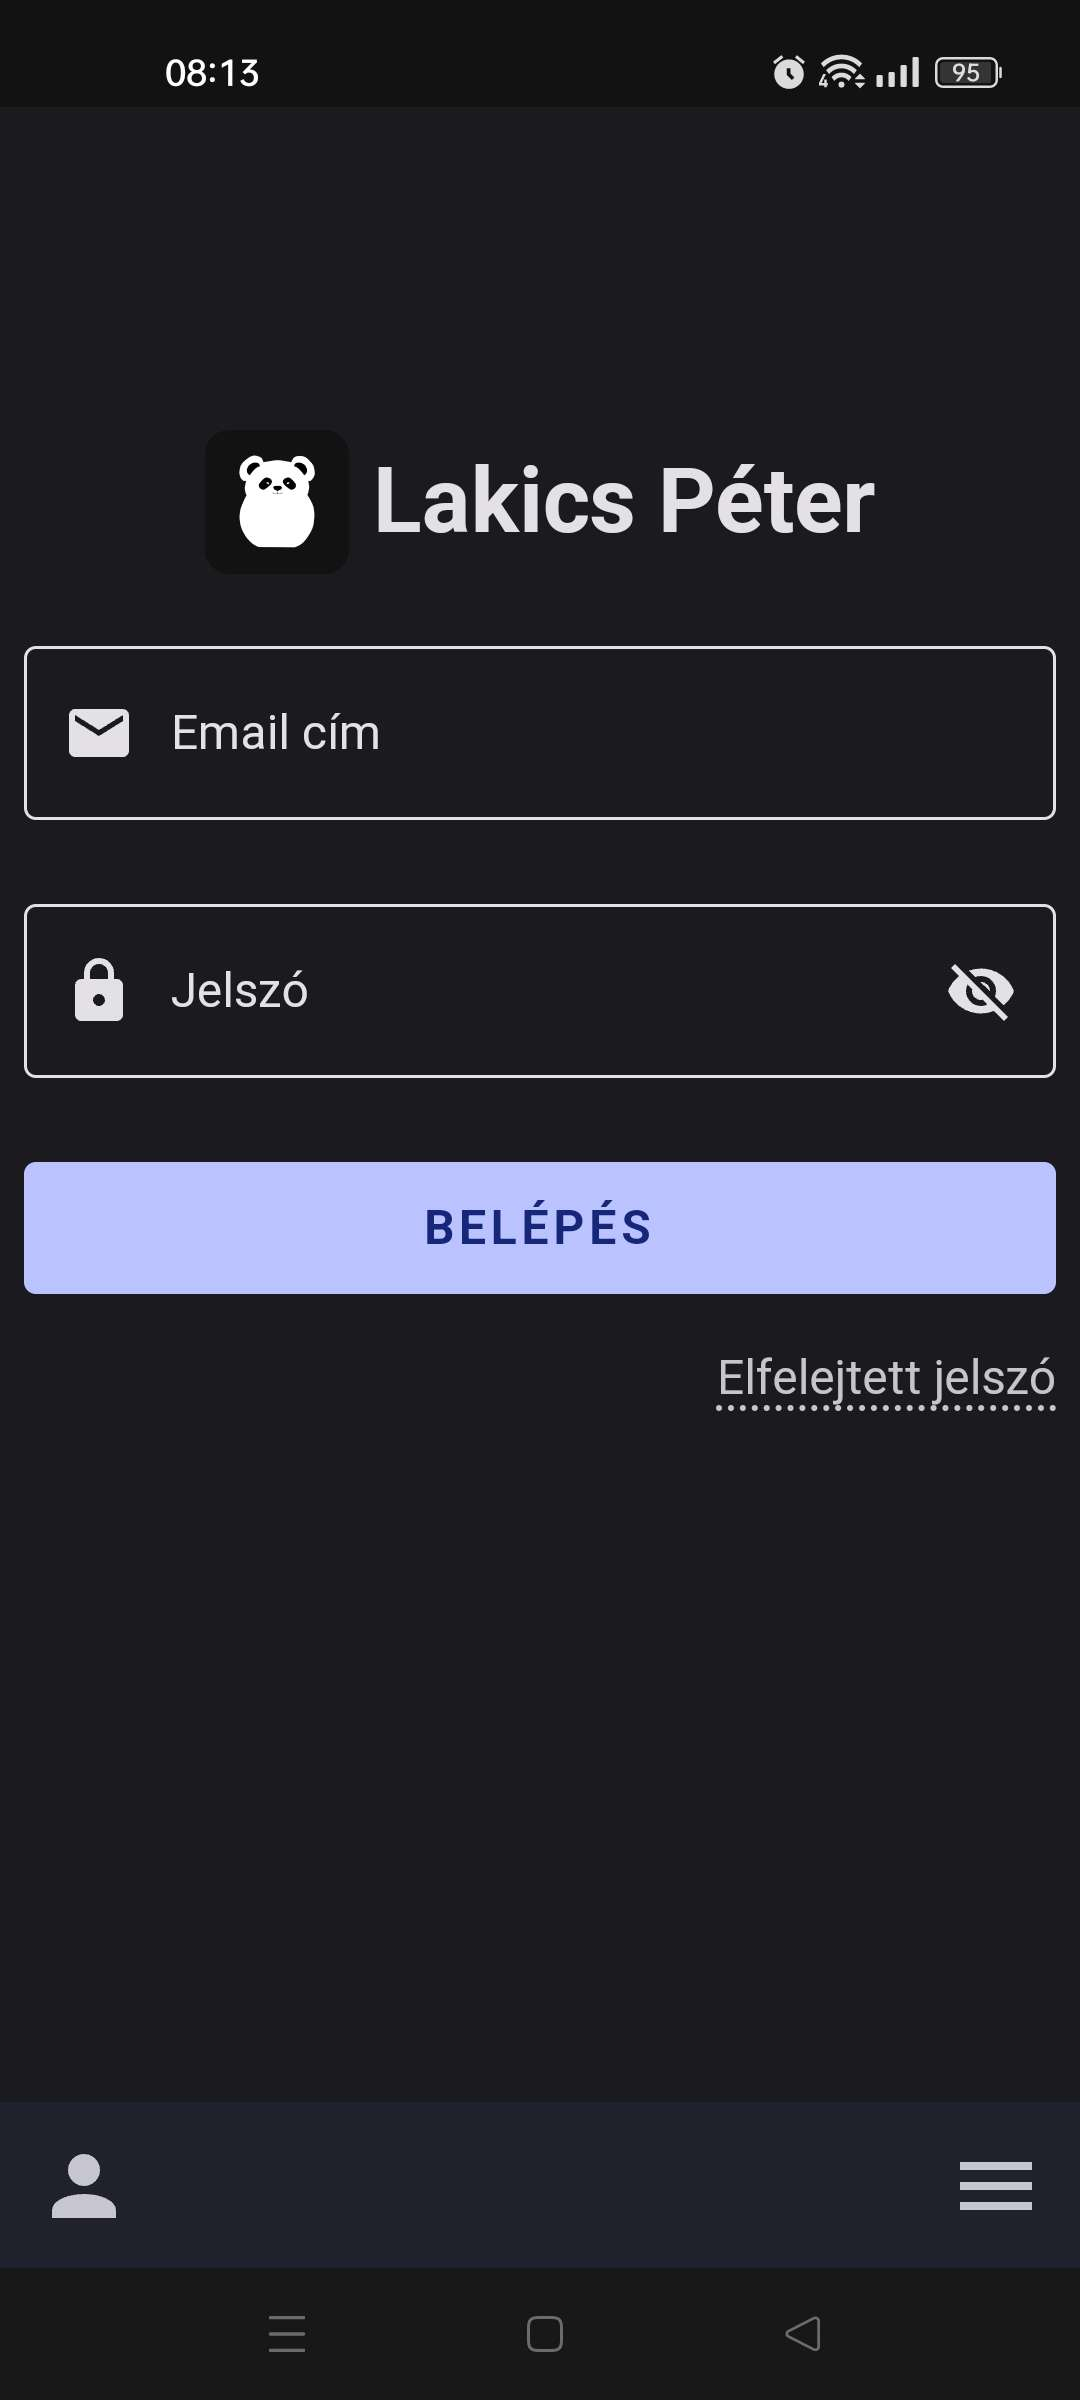
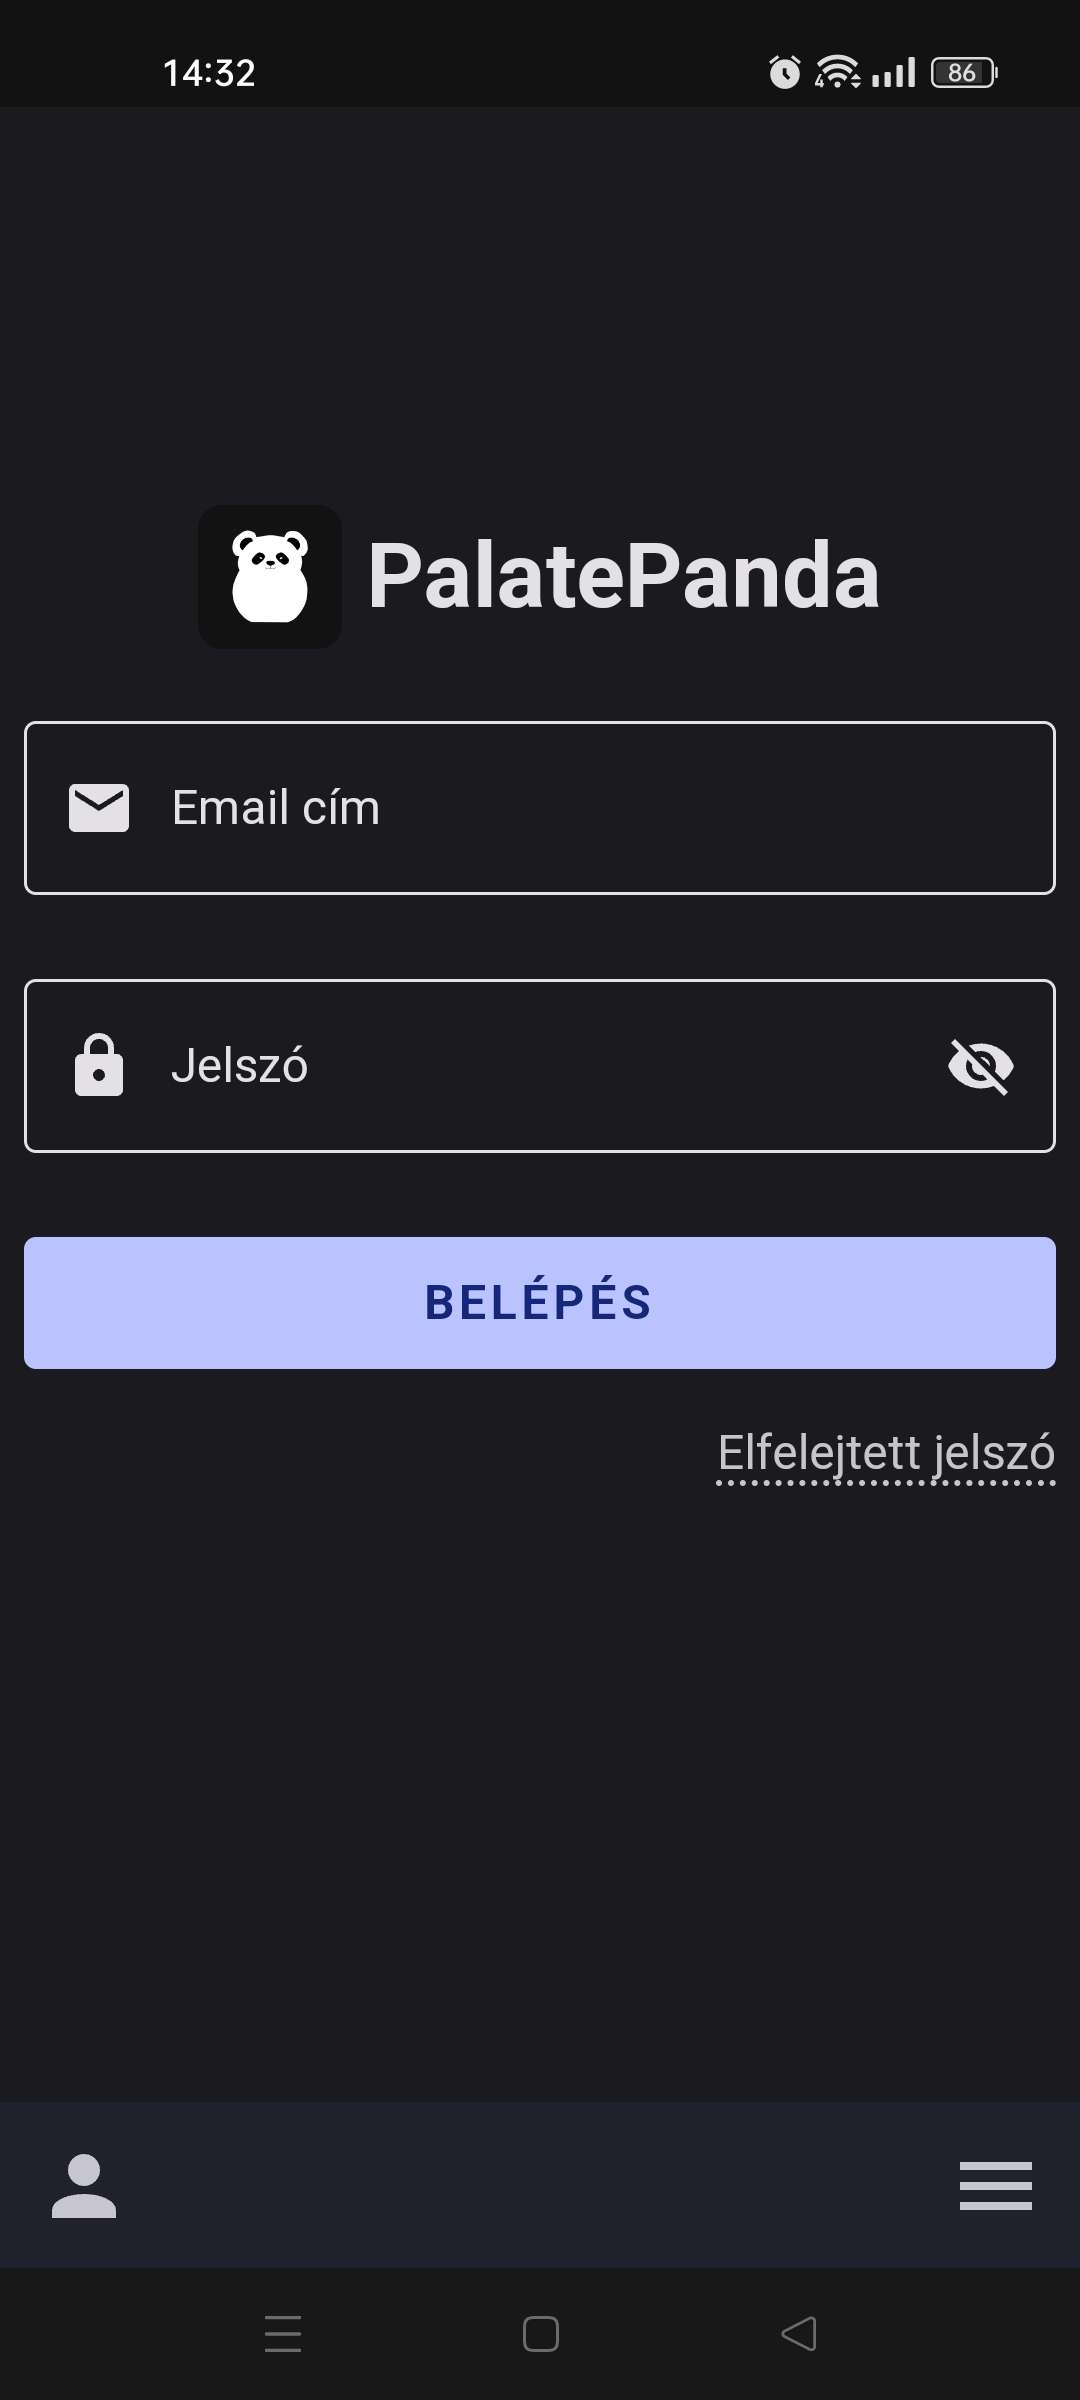
feat: rebrand to palatepanda (#48)
* feat: rebrand to palatepanda

* feat: update narrow screenshots

diff --git a/helpers/index.ts b/helpers/index.ts
@@ -19,41 +19,29 @@ export function debounce(func: TimerHandler, time: number): EventListenerOrEvent
  * @returns The error message
  */
 export function errorHandler(error: { [index: string]: string }): string {
-  if (!error) return '';
-  if (!error.code) return '';
-  switch (error.code) {
-    case 'auth/wrong-password':
-    case 'auth/user-not-found':
-    case 'auth/invalid-credential':
-      return `Hibás email cím vagy jelszó.`;
-    case 'auth-empty':
-      return 'Email cím vagy jelszó nincs kitöltve.';
-    case 'email-empty':
-      return 'Email cím nincs kitöltve.';
-    case 'auth/invalid-email':
-      return `Hibás email cím.`;
-    case 'permission-denied':
-    case 'unauthenticated':
-      return `Nincs jogosultságod megtekinteni az oldal tartalmát.`;
-    case 'auth/internal-error':
-      return `Sikertelen bejelentkezés.`;
-    case 'no-recipe-title':
-      return 'Adj címet a receptnek! Cím megadása: Az első sorban a következőképp: # Példa Cím';
-    case 'empty-recipe':
-      return 'Hiba: A recept nem lehet üres.';
-    case 'displayname-empty':
-      return 'Adj meg egy felhasználónevet!';
-    case 'displayname-short':
-      return 'A felhasználónév túl rövid.';
-    case 'password-empty':
-      return 'Adj meg egy jelszót.';
-    case 'auth/weak-password':
-      return 'A jelszó nem elég erős.';
-    case 'displayname-long':
-      return 'A felhasználónév túl hosszú.';
-    default:
-      return 'Ismeretlen hiba.';
-  }
+  if (!error?.code) return '';
+
+  const errorMessages: { [index: string]: string } = {
+    'auth/wrong-password': 'Hibás email cím vagy jelszó.',
+    'auth/user-not-found': 'Hibás email cím vagy jelszó.',
+    'auth/invalid-credential': 'Hibás email cím vagy jelszó.',
+    'auth-empty': 'Email cím vagy jelszó nincs kitöltve.',
+    'email-empty': 'Email cím nincs kitöltve.',
+    'auth/invalid-email': 'Hibás email cím.',
+    'permission-denied': 'Nincs jogosultságod megtekinteni az oldal tartalmát.',
+    'unauthenticated': 'Nincs jogosultságod megtekinteni az oldal tartalmát.',
+    'auth/internal-error': 'Sikertelen bejelentkezés.',
+    'no-recipe-title':
+      'Adj címet a receptnek! Cím megadása: Az első sorban a következőképp: # Példa Cím',
+    'empty-recipe': 'Hiba: A recept nem lehet üres.',
+    'displayname-empty': 'Adj meg egy felhasználónevet!',
+    'displayname-short': 'A felhasználónév túl rövid.',
+    'password-empty': 'Adj meg egy jelszót.',
+    'auth/weak-password': 'A jelszó nem elég erős.',
+    'displayname-long': 'A felhasználónév túl hosszú.',
+  };
+
+  return errorMessages[error.code] || 'Ismeretlen hiba.';
 }
 
 /**
@@ -62,16 +50,13 @@ export function errorHandler(error: { [index: string]: string }): string {
  * @returns The success message
  */
 export function successHandler(success: { [index: string]: string }): string {
-  if (!success) return '';
-  if (!success.code) return '';
-  switch (success.code) {
-    case 'name-changed':
-      return 'A felhasználónév sikeresen megváltoztatva.';
-    case 'password-changed':
-      return 'A jelszó sikeresen megváltoztatva.';
-    case 'password-reset-sent':
-      return 'A jelszó visszaállító email sikeresen elküldve.';
-    default:
-      return 'Ismeretlen siker.';
-  }
+  if (!success?.code) return '';
+
+  const successMessages: { [index: string]: string } = {
+    'name-changed': 'A felhasználónév sikeresen megváltoztatva.',
+    'password-changed': 'A jelszó sikeresen megváltoztatva.',
+    'password-reset-sent': 'A jelszó visszaállító email sikeresen elküldve.',
+  };
+
+  return successMessages[success.code] || 'Ismeretlen hiba.';
 }

diff --git a/pages/index.vue b/pages/index.vue
@@ -3,8 +3,10 @@
     <ViewWrapper
       :class="['flex', 'items-center', 'flex-col', 'md:flex-row', 'justify-center', 'gap-8']">
       <div :class="['w-1/2', 'hidden', 'md:flex', 'justify-end', 'items-center']">
-        <SvgsHomeSvg
-          style="height: 600px; max-height: calc(100vh - 56px - 32px); min-height: 450px" />
+        <img
+          class="rounded-bl-[80px] rounded-tr-[80px] rounded-tl-[40px] rounded-br-[40px] aspect-square"
+          style="max-height: calc(100vh - 56px - 32px); max-width: 600px"
+          src="/home_img.png" />
       </div>
       <div :class="[device.isMobileOrTablet ? 'w-full' : 'w-1/2']">
         <LazyHomepageLoginForm v-if="!user" />
@@ -34,10 +36,28 @@
     <div
       :class="[
         device.isMobileOrTablet ? 'px-2' : 'px-6',
-        'w-full py-8 md:py-16',
-        isPwa ? 'bg-primary/5' : 'bg-background',
+        'w-full',
+        isPwa ? 'bg-primary/5 py-8 md:py-16' : 'bg-background pt-8 md:pt-16 pb-4 md:pb-8',
       ]">
-      <h2 class="text-2xl mb-4">Az oldalról</h2>
+      <h2 class="text-2xl mb-4">A {{ settings.APP_NAME }}-ról</h2>
+      <p class="mt-2">
+        Merülj el a kulináris élvezetek világában a PalatePanda oldalán, ahol egyszerű, otthoni
+        receptek várnak rád. Fedezd fel az ízletes ételek sokféleségét, melyek könnyedén
+        elkészíthetők mind a tapasztalt szakácsok, mind a konyhai kezdők számára.
+      </p>
+      <p class="mb-4 mt-1">
+        A PalatePanda vidám hangulatában fedezd fel a főzés örömét, ahol az ízek sokszínűsége és az
+        egyszerűség találkozik. Csatlakozz hozzánk, oszd meg inspiráló pillanataidat, és hagyd, hogy
+        a PalatePanda segítse utadat az otthonodban élvezetes élmények és kreatív ötletek felé.
+      </p>
+    </div>
+    <div
+      :class="[
+        device.isMobileOrTablet ? 'px-2' : 'px-6',
+        'w-full py-8 md:py-16',
+        'bg-background',
+        isPwa ? 'py-8 md:py-16' : 'pb-8 md:pb-16 pt-4 md:pt-8',
+      ]">
       <div class="flex gap-4 flex-col md:flex-row">
         <div class="w-full">
           <p class="my-2">
@@ -72,7 +92,8 @@ const user = useCurrentUser();
 const device = useDevice();
 
 const title = 'Kezdőlap';
-const description = 'Lakics Péter weboldala.';
+const description =
+  'Fedezd fel az egyszerű és ízletes otthoni receptek világát a PalatePanda oldalán. Csatlakozz hozzánk, oszd meg kreatív pillanataidat, és merülj el az otthoni főzés örömeiben. A PalatePanda segít, hogy az ételkészítés egy különleges és ízletes élménnyé váljon otthonodban.';
 
 const deferredPrompt = useState('pwaPrompt', () => null as any);
 const isPwa = useState('isPwa', () => false);

diff --git a/pages/receptek/[author]/[id]/szerkesztes.vue b/pages/receptek/[author]/[id]/szerkesztes.vue
@@ -123,24 +123,21 @@ async function saveRecipe() {
   const _lines = cleaned.value.split('\n');
 
   if (_lines.length <= 1) return openAlert(errorHandler({ code: 'empty-recipe' }));
-  if (text.value == originalMd.value) {
-    console.info('Recipe not modified');
-    return router.push(`/receptek/${route.params?.author}/${route.params?.id}`);
-  }
-
   let _title;
 
-  if (isCoverImageLine(_lines[0]) && _lines[1] == '' && isTitleLine(_lines[2])) {
+  if (text.value == originalMd.value) {
+    console.info('Recipe not modified');
+  } else if (isCoverImageLine(_lines[0]) && _lines[1] == '' && isTitleLine(_lines[2])) {
     _title = _lines[2].slice(2);
     await saveToDb(_title, markdown.value, coverImage.value);
-    router.push(`/receptek/${route.params?.author}/${route.params?.id}`);
   } else if (!isCoverImageLine(_lines[0]) && isTitleLine(_lines[0])) {
     _title = _lines[0].slice(2);
     await saveToDb(_title, markdown.value);
-    router.push(`/receptek/${route.params?.author}/${route.params?.id}`);
   } else {
     return openAlert(errorHandler({ code: 'no-recipe-title' }));
   }
+
+  router.push(`/receptek/${route.params?.author}/${route.params?.id}`);
 }
 
 /**
@@ -232,7 +229,9 @@ definePageMeta({
 });
 
 const title = ref('Szerkesztés');
-const description = ref('Recept szerkesztése. Lakics Péter weboldala.');
+const description = ref(
+  'Finomítsd és szabd testre a recepted részleteit a PalatePanda szerkesztő felületén. Adj hozzá egyéni ízeket, finomhangold az utasításokat, és hozd létre saját kulináris mesterművedet. Fedezd fel a szerkesztés örömét, és teremts egyedi ízélményeket a PalatePanda segítségével.'
+);
 const image = ref(`${settings.APP_URL}/logo.png`);
 useSeoMeta({
   title: () => `${title.value}`,

diff --git a/error.vue b/error.vue
@@ -2,9 +2,10 @@
   <NuxtLayout>
     <ViewWrapper
       :class="['flex', 'items-center', 'flex-col', 'md:flex-row', 'justify-center', 'gap-8']">
-      <SvgsErrorSvg
-        style="width: clamp(18.125rem, 14.671rem + 18.421vw, 31.25rem)"
-        aria-label="404" />
+      <img
+        class="rounded-bl-[80px] rounded-tr-[80px] rounded-tl-[40px] rounded-br-[40px] aspect-square"
+        style="max-height: calc(100vh - 56px - 32px); max-width: 600px"
+        src="/404_img.png" />
       <div
         style="max-width: 100%; width: 24rem"
         class="text-center md:text-left">
@@ -54,7 +55,7 @@ onMounted(() => {
   document.documentElement.style.colorScheme = theme.value;
 });
 
-const description = `Ez az oldal nem található. Lakics Péter weboldala.`;
+const description = `Az oldal, amit keresel, sajnos nem található. Azonban ne csüggedj! Fedezd fel további ízletes receptjeinket és konyhai inspirációinkat a PalatePanda oldalán. Csatlakozz hozzánk, és merülj el az otthoni főzés izgalmas világában.`;
 useHead({
   titleTemplate: (title) => `${title} | ${settings.APP_NAME}`,
   htmlAttrs: { lang: 'hu' },

diff --git a/components/homepage/LoginWelcome.vue b/components/homepage/LoginWelcome.vue
@@ -1,7 +1,7 @@
 <template>
   <div
     :class="[device.isMobileOrTablet ? 'mx-auto' : '']"
-    style="max-width: 600px; height: 450px">
+    style="max-width: 600px; height: 400px">
     <span class="flex items-center justify-center mb-6">
       <img
         class="rounded-lg mr-2"
@@ -9,7 +9,7 @@
         alt="Logo"
         width="48"
         height="48" />
-      <h1 class="text-3xl font-bold">Belépve, mint:</h1>
+      <h1 class="text-3xl font-bold">{{ settings.APP_NAME }}</h1>
     </span>
     <div class="bg-primary/5 text-on-surface mb-3 p-4 rounded drop-shadow-sm overflow-x-hidden">
       <Transition>
@@ -18,7 +18,6 @@
           class="h-1 rounded-full bottom-0 absolute"
           style="animation: progressBar 1.5s ease-in-out infinite"></div>
       </Transition>
-
       <span
         style="gap: 0.5rem"
         class="flex items-center mb-2">
@@ -80,6 +79,7 @@
   </div>
 </template>
 <script setup lang="ts">
+import settings from '@/appsettings.json';
 import SvgIcon from '@jamescoyle/vue-icon';
 import { mdiEmail, mdiNotebook, mdiAccount } from '@mdi/js';
 

diff --git a/nuxt.config.ts b/nuxt.config.ts
@@ -1,3 +1,4 @@
+import settings from './appsettings.json';
 // https://nuxt.com/docs/api/configuration/nuxt-config
 export default defineNuxtConfig({
   modules: [
@@ -12,9 +13,10 @@ export default defineNuxtConfig({
   pwa: {
     includeAssets: ['favicon.ico', 'apple-touch-icon.png'],
     manifest: {
-      name: 'Lakics Péter',
-      short_name: 'Lakics Péter',
-      description: 'Lakics Péter személyes weboldala.',
+      name: `${settings.APP_NAME}`,
+      short_name: `${settings.APP_NAME}`,
+      description:
+        'Fedezd fel az egyszerű és ízletes otthoni receptek világát a PalatePanda oldalán. Csatlakozz hozzánk, oszd meg kreatív pillanataidat, és merülj el az otthoni főzés örömeiben. A PalatePanda segít, hogy az ételkészítés egy különleges és ízletes élménnyé váljon otthonodban.',
       screenshots: [
         {
           src: 'wide_recipe.png',

diff --git a/pages/receptek/[author]/[id]/index.vue b/pages/receptek/[author]/[id]/index.vue
@@ -157,7 +157,9 @@ const avatarURL = computed(() => {
 });
 
 const title = useState('recipeTitle', () => 'Recept');
-const description = ref('Recept megtekintése. Lakics Péter weboldala.');
+const description = ref(
+  'Kóstold meg az otthoni konyha varázsát a PalatePanda egyedi receptjével. Fedezd fel az ízek harmoniáját, és merülj el a kulináris kreativitás világában. Oszd meg tapasztalataidat, inspirálj másokat, és hagyd, hogy a PalatePanda segítsen a gasztronómiai élményeid továbbfejlesztésében.'
+);
 const image = ref(`${settings.APP_URL}/logo.png`);
 useSeoMeta({
   title: () => `${title.value}`,

diff --git a/pages/recept-iras.vue b/pages/recept-iras.vue
@@ -166,7 +166,8 @@ async function saveToDb(_title: string, _markdown: string, _image?: string) {
 }
 
 const title = 'Recept Írás';
-const description = 'Recept írása. Lakics Péter weboldala.';
+const description =
+  'Üdvözöllek a PalatePanda recept írás oldalán! Fedezd fel a kreativitásodat, ossz meg saját receptjeidet és kulináris ötleteidet a PalatePanda közösségével. Teremts egyedi ízeket, és inspirálj másokat az otthoni főzés művészetében. Legyen ez a hely, ahol a gasztronómia szerelmesei találkoznak és megosztják szenvedélyüket!';
 
 definePageMeta({
   middleware: ['auth'],

diff --git a/pages/receptek/sajat.vue b/pages/receptek/sajat.vue
@@ -175,7 +175,8 @@ function avatarURL(authorName: string) {
 }
 
 const title = 'Saját Receptek';
-const description = 'Saját receptek megtekintése. Lakics Péter weboldala.';
+const description =
+  'Fedezd fel és oszd meg saját kulináris alkotásaidat a PalatePanda személyes receptek oldalán. Teremts egyedi ízeket, mesélj a konyhai kalandjaidról, és inspirálj másokat a saját receptjeid által. Legyen ez a hely, ahol a személyes ízkavalkádok találkoznak, és ahol minden recept egy történet kezdete.';
 
 useSeoMeta({
   title: () => `${title}`,

diff --git a/pages/receptek/index.vue b/pages/receptek/index.vue
@@ -157,7 +157,8 @@ function avatarURL(authorName: string) {
 }
 
 const title = 'Receptek';
-const description = 'Receptek megtekintése. Lakics Péter weboldala.';
+const description =
+  'Fedezd fel a PalatePanda receptek gyűjteményét, és kóstold meg az otthoni konyha változatos ízeit. Ismerj meg új és izgalmas recepteket a közösség által megosztott kulináris kalandokból. Inspirálódj, főzz egyedi ételeket, és hagyd, hogy a PalatePanda vezessen el a gasztronómiai örömök világában.';
 
 useSeoMeta({
   title: () => `${title}`,

diff --git a/components/navigation/FooterDefault.vue b/components/navigation/FooterDefault.vue
@@ -24,7 +24,7 @@
       class="flex flex-col sm:flex-row justify-center"
       style="gap: 0.35rem">
       <span>© {{ new Date().getFullYear() }}</span>
-      <span class="hidden sm:inline">|</span>
+      <span class="hidden sm:inline">-</span>
       <strong>Lakics Péter</strong>
       <span class="hidden sm:inline">|</span>
       <a

diff --git a/pages/profil.vue b/pages/profil.vue
@@ -103,7 +103,7 @@ const password = useState('newPassword', () => '');
 const showPassword = useState('showNewPassword', () => false);
 
 const title = 'Profil';
-const description = 'Profil. Lakics Péter weboldala.';
+const description = 'Szabd személyre a PalatePanda profilodat.';
 
 onUnmounted(() => {
   loadingUsername.value = false;
